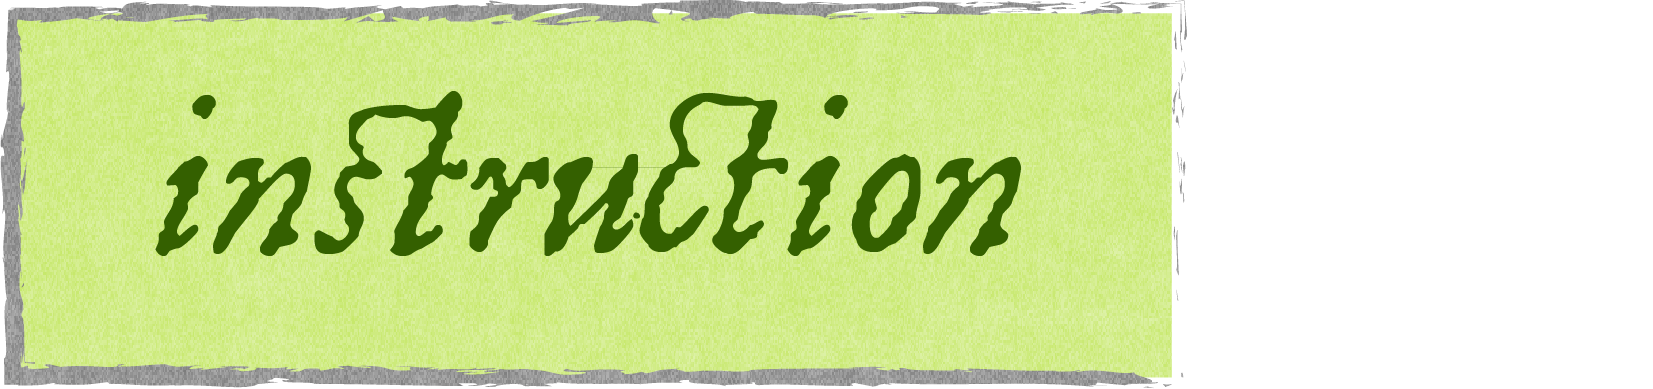
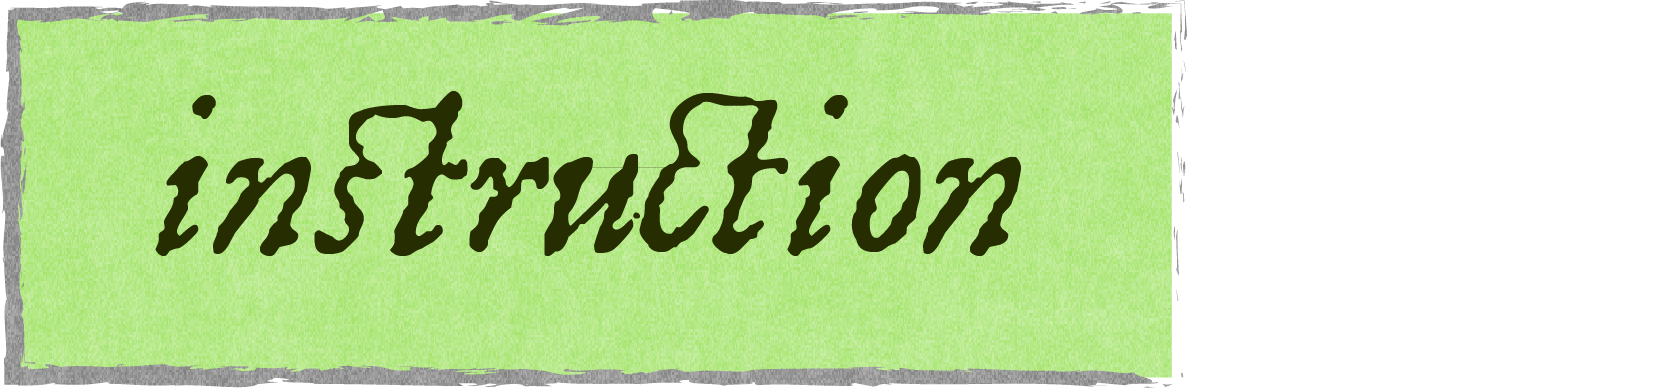
instruct
add

diff --git a/style.css b/style.css
@@ -179,25 +179,29 @@ LANDING ASSETS
 
 
 /* ==========================
-LANDING BUTTONS
-sound + instruction + information
+LANDING BUTTON LAYOUT
 ========================== */
 
 .landing-buttons {
   position: absolute;
 
-  left: 42px;
-  bottom: 28px;
+  inset: 0;
 
   z-index: 1000;
 
-  display: flex;
-  align-items: center;
-  gap: 28px;
+  pointer-events: none;
 }
 
-.landing-buttons button {
-  padding: 0;
+
+/* LEFT */
+
+#instruction-button {
+  position: absolute;
+
+  left: 42px;
+  bottom: 28px;
+
+  pointer-events: auto;
 
   border: none;
   background: transparent;
@@ -205,24 +209,66 @@ sound + instruction + information
   cursor: pointer;
 }
 
+
+/* RIGHT */
+
+#sound-toggle {
+  position: absolute;
+
+  right: 200px;
+  bottom: 28px;
+
+  pointer-events: auto;
+
+  border: none;
+  background: transparent;
+
+  cursor: pointer;
+}
+
+#info-button {
+  position: absolute;
+
+  right: 42px;
+  bottom: 28px;
+
+  pointer-events: auto;
+
+  border: none;
+  background: transparent;
+
+  cursor: pointer;
+}
+
+
+/* IMAGE */
+
 .landing-buttons img {
   display: block;
 
   height: 42px;
+
   width: auto;
 
   pointer-events: none;
 }
 
-.landing-buttons button:hover {
-  transform: translateY(1px);
+
+/* HOVER */
+
+#instruction-button:hover,
+#sound-toggle:hover,
+#info-button:hover {
+  transform:
+  translateY(1px);
 }
 
-.landing-buttons button:active {
-  transform: translateY(2px);
+#instruction-button:active,
+#sound-toggle:active,
+#info-button:active {
+  transform:
+  translateY(2px);
 }
-
-
 /* ==========================
 INFO PANEL IMAGE
 ========================== */
@@ -330,7 +376,7 @@ INSTRUCTION PANEL IMAGE
   border: none;
   background: transparent;
 
-  color: #172209;
+  color: #adb92d;
 
   font-family: Georgia, serif;
   font-size: 26px;